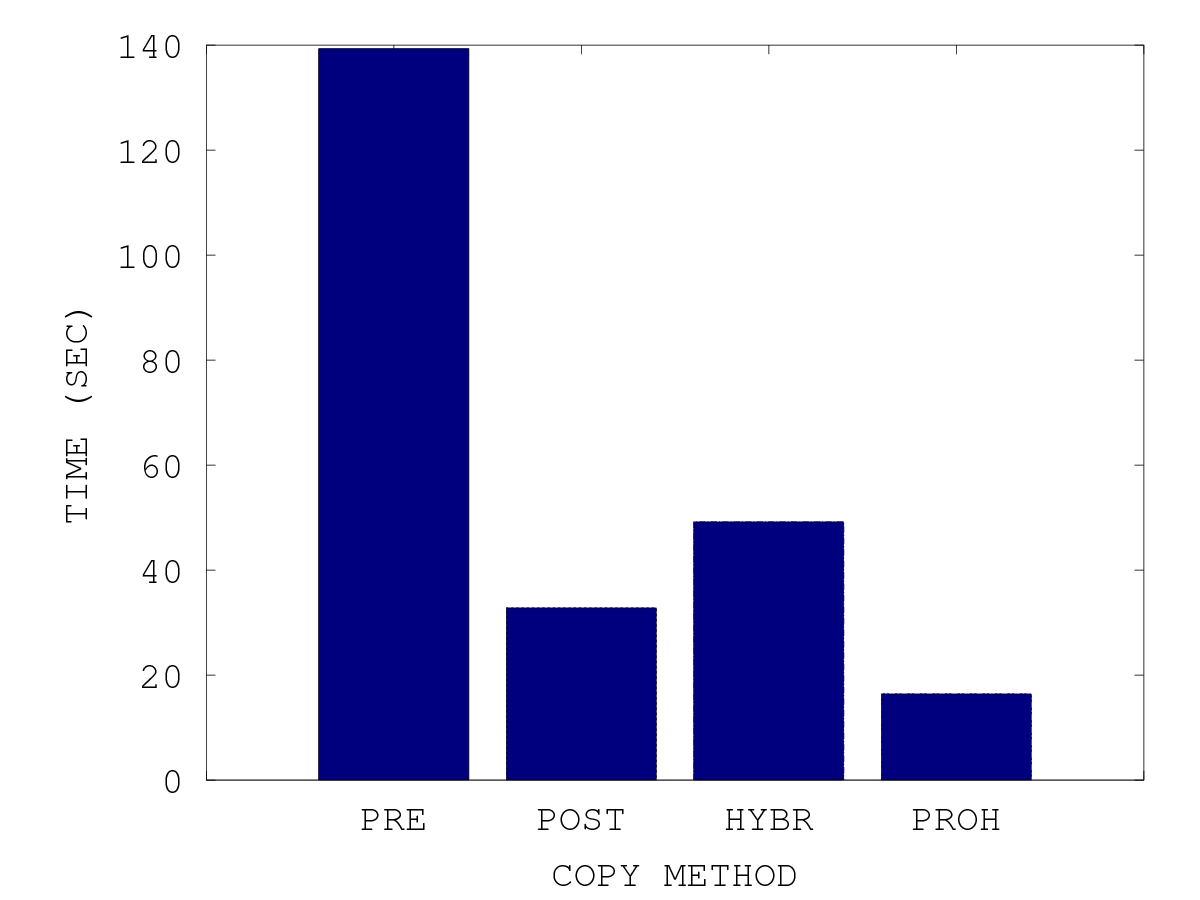
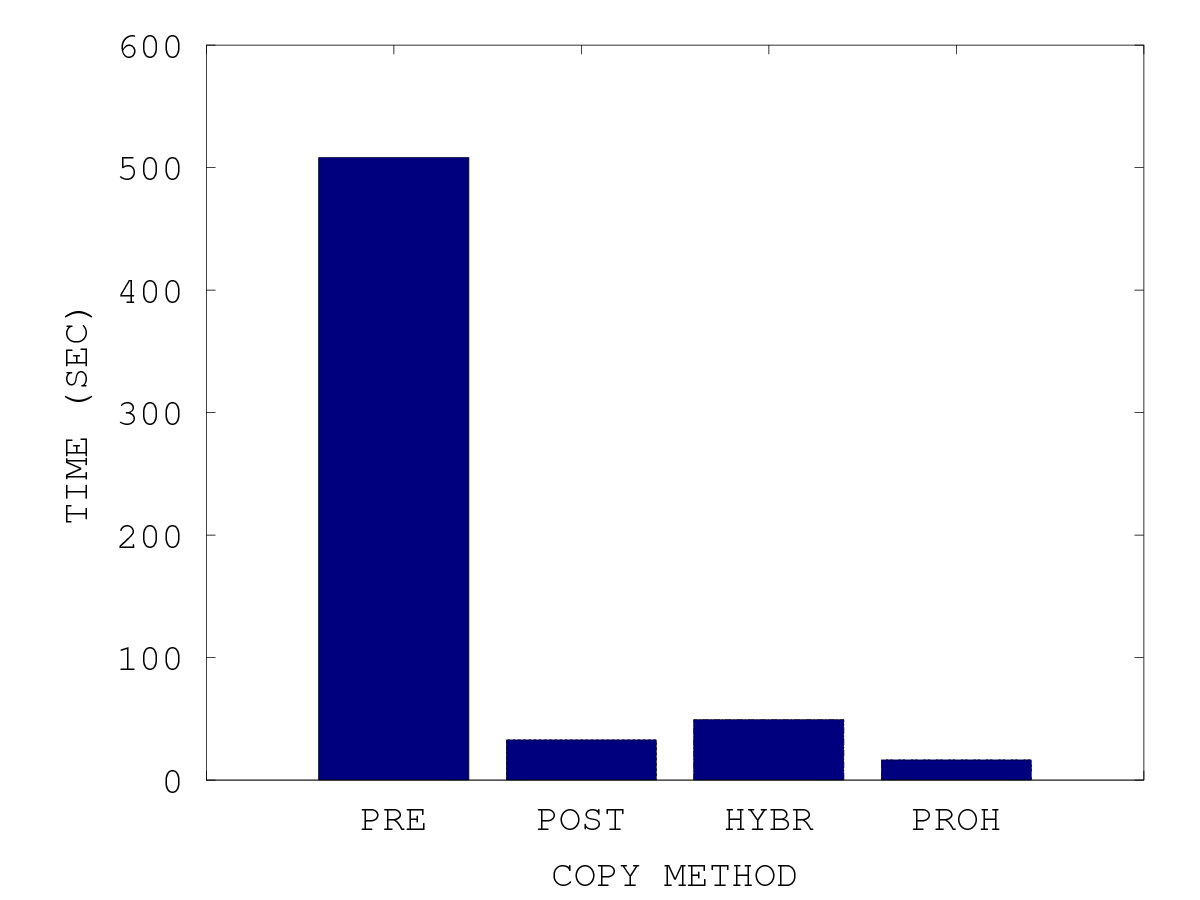
basic.m

diff --git a/basic.m b/basic.m
@@ -4,11 +4,11 @@ r = 4096
 r *= 1024 % convert to KB
 
 % page dirty rate in percent (%): against to total memory pages
-readrate = 50
+readrate = 0
 prefix = strcat ("M4G_R", num2str(readrate))
 readrate /= 100
 
-dirtyrate = 0 
+dirtyrate = 50 
 prefix = strcat (prefix, "_W", num2str(dirtyrate))
 dirtyrate /= 100
 
